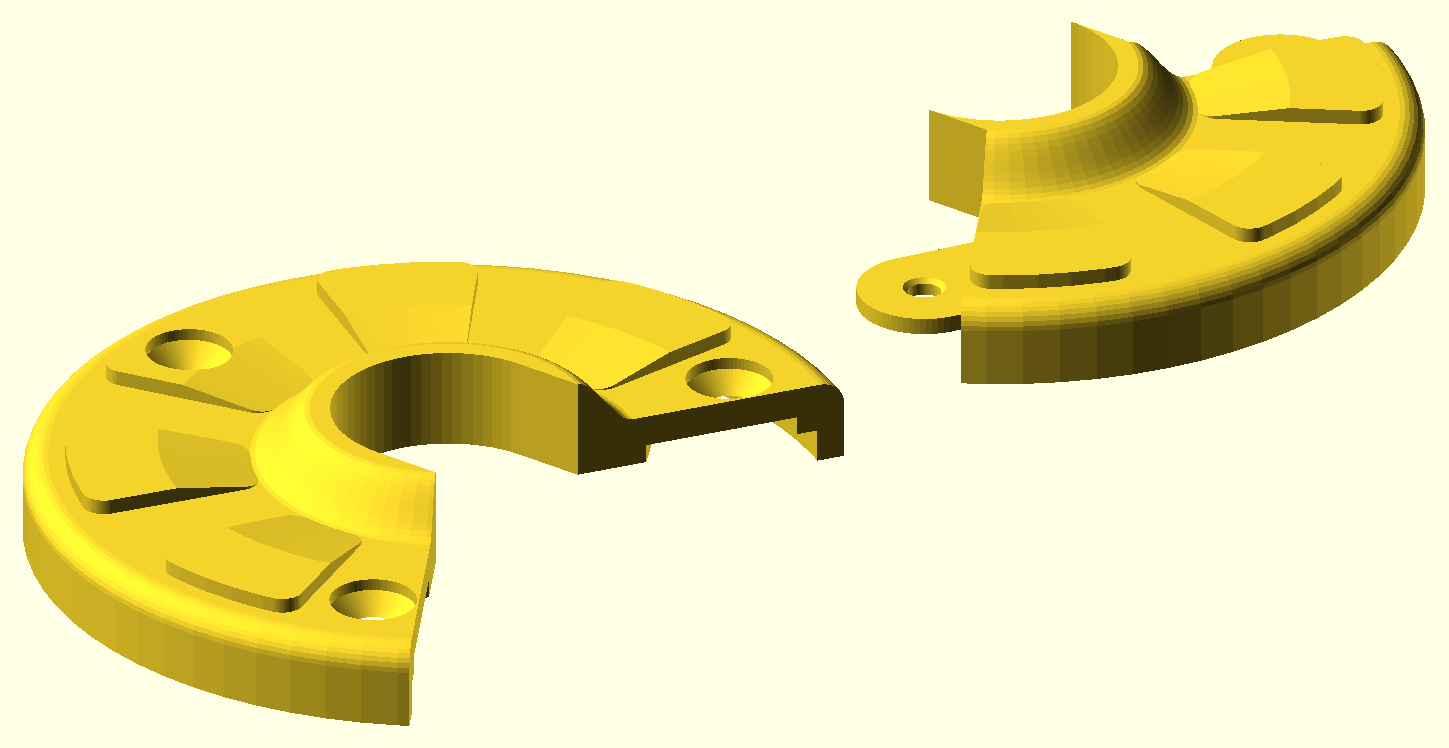
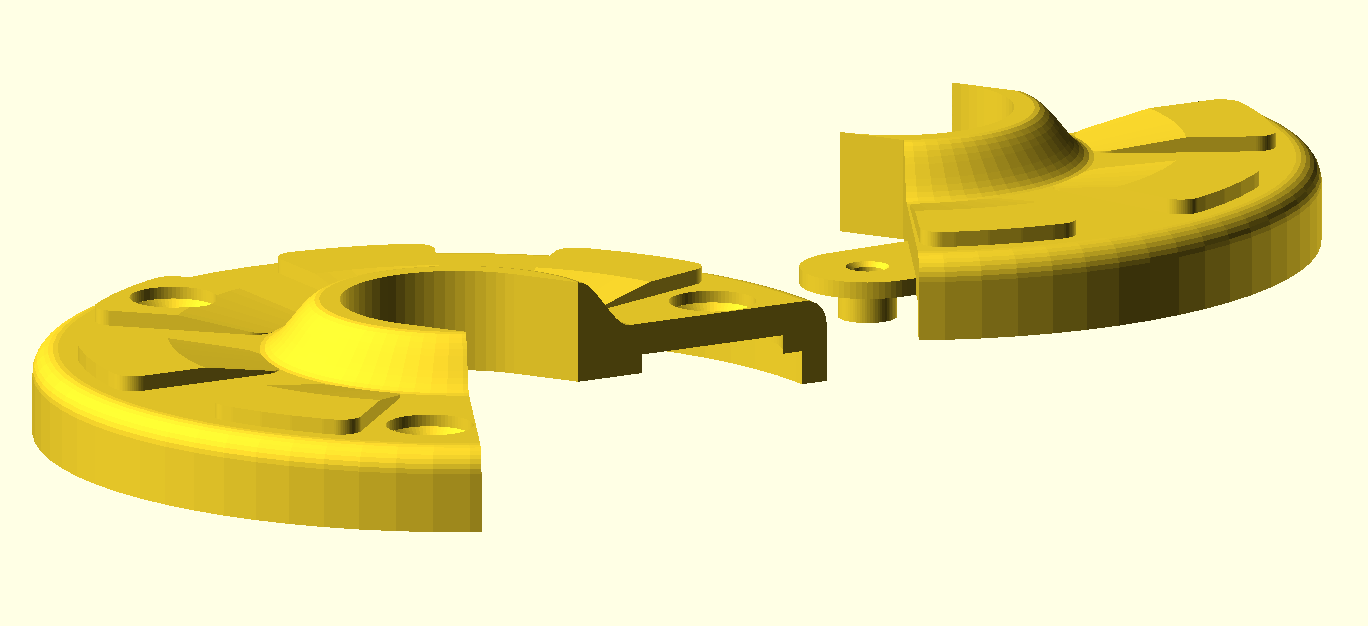
add standoffs

Changed region(s): [[0.0, 0.0304, 0.9825, 0.9712]]

diff --git a/outdoor/hoseBibEscutcheon/design_process.md b/outdoor/hoseBibEscutcheon/design_process.md
@@ -128,6 +128,14 @@ Some people might want to print an escutcheon without allowance for foam at the 
 > That might be an important feature for some people.
 > Also please add a decimal place to that setting.
 
+Having printed one, I noticed a potential issue:
+
+> Let's add a setting to create integrated standoffs for the screws, which will be the same length as `back_rim_depth`,
+> with the same hole diameter as `screw_shank_diameter`. The setting should define the thickness of the walls of the
+> standoff, defaulting to 1.0, where zero means "do not create integrated standoffs". The idea is to extend the screw
+> holes back to the wall, for better stability. The standoffs should of course be created only if `back_rim_depth`
+> is greater than zero. Some makers might elect to omit the standoffs for reasons that haven't occurred to me.
+
 # My configuration
 
 This is one of my particular hose bibs:
@@ -169,6 +177,7 @@ In the same directory as `hoseBibEscutcheon_v1.scad` I place `hoseBibEscutcheon_
             "sleeve_profile_steps": "12",
             "sleeve_wall_thickness": "2.4",
             "slot_side_clearance": "0.25",
+            "standoff_wall_thickness": "1.5",
             "tab_radius": "8",
             "tab_thickness": "2"
         }
